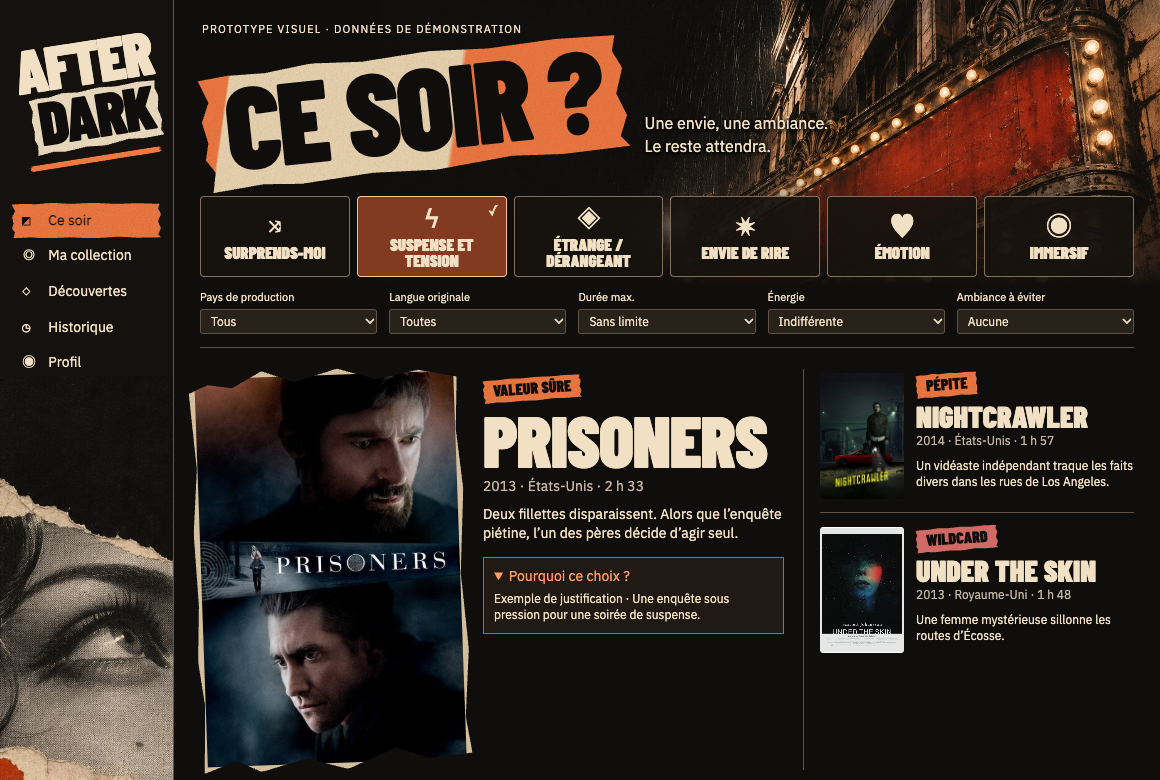
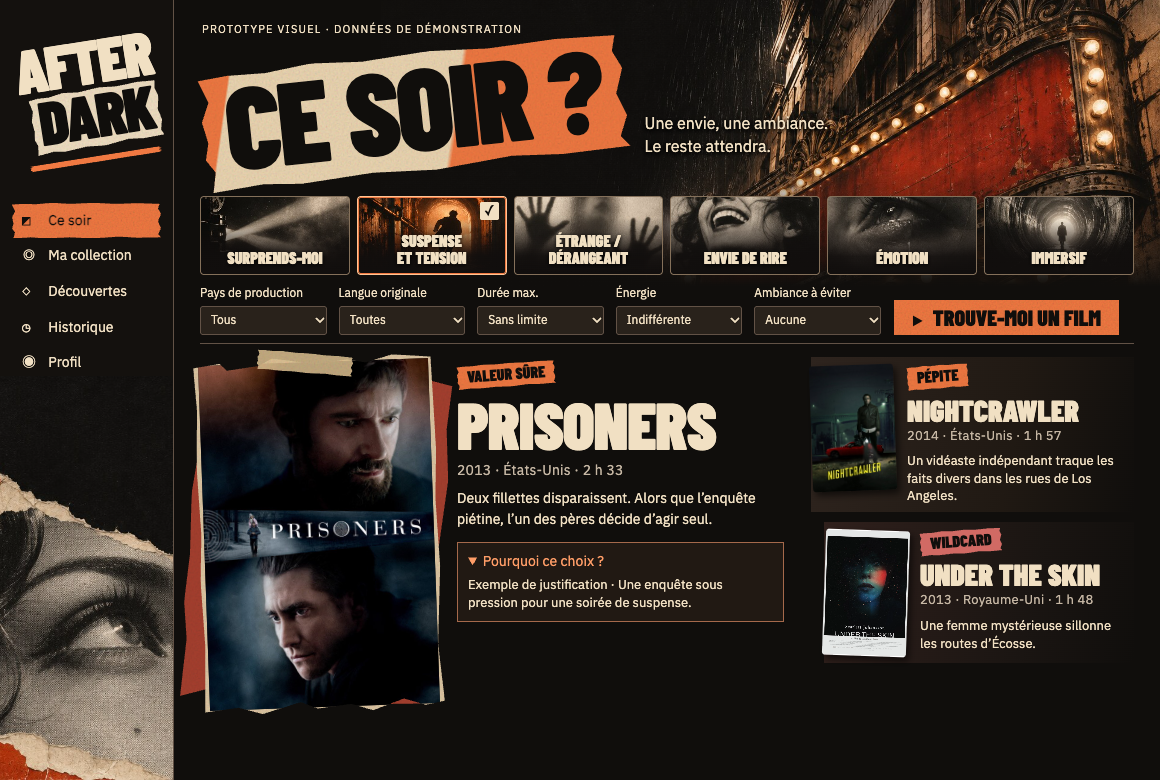
Refine Ce soir prototype with photographic moods and layered posters

Changed region(s): [[0.0, 0.2462, 0.9931, 1.0], [0.7138, 0.2462, 0.9931, 0.3385], [0.3724, 0.9538, 0.4034, 0.9846]]

diff --git a/docs/prototypes/ce-soir/prototype.css b/docs/prototypes/ce-soir/prototype.css
@@ -34,9 +34,8 @@ h1 { font-size: clamp(73px, 10vw, 127px); letter-spacing: -.025em; color: var(--
 .moods legend { position: absolute; width: 1px; height: 1px; clip-path: inset(50%); overflow: hidden; }
 .moods label { position: relative; display: grid; grid-template-rows: 33px auto; align-content: center; justify-items: center; padding: 7px 8px; min-height: 81px; border: 1px solid #84705a; border-radius: 4px; text-align: center; font-size: 17px; background: #16120ee8; cursor: pointer; }
 .moods input { position: absolute; opacity: 0; }
-.moods label:has(:checked) { border-color: #ffc494; background: #823b21; }
+.moods label:has(:checked) { border-color: #ffc494; }
 .moods label:has(:checked)::after { content: "✓"; position: absolute; top: 5px; right: 7px; font: 14px Plex; }
-.symbol { font: 27px/1 Plex, sans-serif; }
 .filters { display: grid; grid-template-columns: repeat(5, 1fr); gap: 12px; padding: 13px 0; border-bottom: 1px solid var(--line); }
 .filters label { display: grid; gap: 4px; font-size: 11px; }
 select { width: 100%; min-width: 0; border: 1px solid var(--line); border-radius: 3px; background: #29221b; color: var(--paper); padding: 3px 6px; font: 12px Plex, sans-serif; }
@@ -87,4 +86,155 @@ h1, .paper, .brand span + span, .views .active, .role {
 h1 { background-image: url(assets/grain.svg), linear-gradient(104deg, var(--orange) 7%, #ecd6b2 7.5% 59%, var(--orange) 60%); }
 .hero::before {
   background: linear-gradient(0deg, var(--ink), transparent 43%), linear-gradient(90deg, var(--ink) 10%, #100e0ca6 34%, transparent 64%), url(assets/cinema.jpg) right 47% / 79% auto no-repeat;
+}
+
+/* Photographic contact prints keep type on an ink edge at every crop. */
+.moods label {
+  background: linear-gradient(0deg, #110e0d 0%, #110e0deb 23%, transparent 73%), var(--still) center 38% / cover;
+  display: flex;
+  align-items: end;
+  justify-content: center;
+  min-height: 79px;
+  font-size: 16px;
+  line-height: 1.02;
+  padding: 27px 9px 8px;
+  text-wrap: balance;
+  text-shadow: 0 1px 4px #000;
+}
+.moods label:has([value="surprise"]) { --still: url(assets/mood-surprise.jpg); }
+.moods label:has([value="tension"]) { --still: url(assets/mood-tension.jpg); }
+.moods label:has([value="strange"]) { --still: url(assets/mood-strange.jpg); }
+.moods label:has([value="laugh"]) { --still: url(assets/mood-laugh.jpg); }
+.moods label:has([value="emotion"]) { --still: url(assets/mood-emotion.jpg); }
+.moods label:has([value="immersion"]) { --still: url(assets/mood-immersion.jpg); }
+.moods label:hover { border-color: var(--paper); }
+.moods label:has(:checked) {
+  border-color: #ffc494;
+  box-shadow: inset 0 0 0 1px #f07942;
+  background-color: #6d2a16;
+}
+.moods label:has(:checked)::after {
+  background: var(--paper);
+  color: var(--ink);
+  padding: 0 4px;
+  border-radius: 2px;
+  text-shadow: none;
+}
+.filters { border: 0; padding: 10px 0 8px; }
+.filters label { font-size: 12px; }
+select { min-height: 29px; }
+.search {
+  display: flex;
+  align-items: center;
+  gap: 15px;
+  border-bottom: 1px solid var(--line);
+  padding-bottom: 10px;
+}
+.search button {
+  border: 0;
+  cursor: pointer;
+  background: var(--orange) url(assets/grain.svg);
+  background-blend-mode: multiply;
+  color: var(--ink);
+  padding: 6px 18px 7px;
+  font: 900 22px/1 Barlow, sans-serif;
+  text-transform: uppercase;
+}
+.search button span { margin-right: 5px; font-size: 13px; }
+.search button:hover { background-color: #ffa46d; }
+.search p { color: var(--muted); font-size: 12px; }
+.lineup { margin-top: 13px; }
+.feature-art {
+  position: relative;
+  isolation: isolate;
+  margin: 0 1px 0 4px;
+}
+.feature-art::before, .feature-art::after {
+  content: "";
+  position: absolute;
+  pointer-events: none;
+  background-blend-mode: multiply;
+  clip-path: var(--torn);
+}
+.feature-art::before {
+  z-index: -1;
+  inset: 10px -5px 7px -10px;
+  background: #a6402f url(assets/grain.svg);
+  transform: rotate(4deg);
+}
+.feature-art::after {
+  width: 40%;
+  height: 20px;
+  left: 24%;
+  top: -4px;
+  background: #dfc290d9 url(assets/grain.svg);
+  transform: rotate(5deg);
+}
+.paper {
+  padding: 5px;
+  --torn: polygon(0 2%, 11% 1%, 14% 3%, 27% 2%, 33% 0, 51% 2%, 64% 1%, 72% 2%, 83% 0, 99% 1%, 100% 27%, 99% 41%, 100% 60%, 98% 82%, 100% 98%, 92% 99%, 83% 97%, 70% 100%, 61% 98%, 47% 99%, 40% 97%, 24% 100%, 14% 98%, 0 99%, 1% 80%, 0 62%, 1% 49%, 0 30%, 1% 14%);
+}
+.paper img { aspect-ratio: auto; max-height: 339px; object-position: center; object-fit: contain; background: #171310; }
+.feature h2 { font-size: clamp(40px, 5.65vw, 72px); line-height: .97; }
+.feature-copy { padding-top: 6px; }
+.feature-copy > p:not(.role) { line-height: 1.45; }
+.meta { letter-spacing: .015em; }
+details p { font-size: 13px; }
+.alternatives {
+  border-left: 0;
+  padding-left: 8px;
+}
+.alternatives article {
+  position: relative;
+  padding: 8px 10px 7px 0;
+  background: linear-gradient(100deg, #2e241e 0%, #201913 62%, transparent);
+}
+.alternatives article + article {
+  border: 0;
+  padding-top: 8px;
+  margin: 10px 0 0 13px;
+  background: linear-gradient(100deg, #30201c, #1a1512 66%, transparent);
+}
+.alternatives img {
+  box-shadow: 3px 4px 7px #0009;
+  transform: rotate(-2deg);
+}
+.alternatives article + article img { transform: rotate(2deg); }
+.alternatives p:not(.role) { font-size: 13px; line-height: 1.35; }
+.alternatives h2 { line-height: 1; }
+@media (max-width: 580px) {
+  .hero { min-height: 147px; padding-top: 12px; }
+  h1 { font-size: clamp(54px, 14vw, 80px); }
+  .intro { padding: 4px 0 0; font-size: 14px; }
+  .intro br { display: none; }
+  .moods label { min-height: 67px; }
+  .search { flex-wrap: wrap; gap: 5px 12px; }
+  .feature h2 { font-size: clamp(30px, 8vw, 44px); }
+  .feature-copy { min-width: 0; }
+  .alternatives { padding-left: 0; }
+}
+@media (min-width: 881px) {
+  .controls {
+    display: grid;
+    grid-template-columns: minmax(0, 1fr) auto;
+    gap: 0 13px;
+    border-bottom: 1px solid var(--line);
+  }
+  .moods { grid-column: 1 / -1; }
+  .search { border: 0; align-self: end; padding-bottom: 8px; position: relative; }
+  .search p:not(:empty) {
+    position: absolute;
+    z-index: 1;
+    top: 100%;
+    right: 0;
+    width: max-content;
+    background: var(--ink);
+    padding: 4px 8px;
+  }
+  .feature { grid-template-columns: minmax(0, 245px) minmax(0, 1fr); }
+  .paper img { max-height: none; }
+}
+@media (max-width: 580px) {
+  .search button { min-height: 40px; }
+  .search p:empty { display: none; }
 }

diff --git a/docs/prototypes/ce-soir/index.html b/docs/prototypes/ce-soir/index.html
@@ -3,9 +3,10 @@
 <head>
   <meta charset="utf-8">
   <meta name="viewport" content="width=device-width, initial-scale=1">
-  <meta http-equiv="Content-Security-Policy" content="default-src 'none'; style-src 'self'; font-src 'self'; img-src 'self'">
+  <meta http-equiv="Content-Security-Policy" content="default-src 'none'; style-src 'self'; font-src 'self'; script-src 'self'; img-src 'self'">
   <title>After Dark · Prototype Ce soir</title>
   <link rel="stylesheet" href="prototype.css">
+  <script src="prototype.js" defer></script>
 </head>
 <body>
   <aside class="sidebar">
@@ -27,12 +28,12 @@
     <form class="controls" aria-label="Critères de la séance">
       <fieldset class="moods">
         <legend>Humeur</legend>
-        <label><input type="radio" name="mood" value="surprise"><span class="symbol" aria-hidden="true">⤨</span>Surprends-moi</label>
-        <label><input type="radio" name="mood" value="tension" checked><span class="symbol" aria-hidden="true">ϟ</span>Suspense et tension</label>
-        <label><input type="radio" name="mood" value="strange"><span class="symbol" aria-hidden="true">◈</span>Étrange / dérangeant</label>
-        <label><input type="radio" name="mood" value="laugh"><span class="symbol" aria-hidden="true">✷</span>Envie de rire</label>
-        <label><input type="radio" name="mood" value="emotion"><span class="symbol" aria-hidden="true">♥</span>Émotion</label>
-        <label><input type="radio" name="mood" value="immersion"><span class="symbol" aria-hidden="true">◉</span>Immersif</label>
+        <label><input type="radio" name="mood" value="surprise">Surprends-moi</label>
+        <label><input type="radio" name="mood" value="tension" checked>Suspense et tension</label>
+        <label><input type="radio" name="mood" value="strange">Étrange / dérangeant</label>
+        <label><input type="radio" name="mood" value="laugh">Envie de rire</label>
+        <label><input type="radio" name="mood" value="emotion">Émotion</label>
+        <label><input type="radio" name="mood" value="immersion">Immersif</label>
       </fieldset>
       <div class="filters">
         <label>Pays de production<select><option>Tous</option><option>France</option><option>Espagne</option></select></label>
@@ -41,10 +42,16 @@
         <label>Énergie<select><option>Indifférente</option><option>Modérée</option></select></label>
         <label>Ambiance à éviter<select><option>Aucune</option><option>Violence</option></select></label>
       </div>
+      <div class="search">
+        <button type="submit"><span aria-hidden="true">▶</span> Trouve-moi un film</button>
+        <p role="status" id="demo-status"></p>
+      </div>
     </form>
-    <section class="lineup" aria-label="Sélection de démonstration">
+    <section class="lineup" aria-label="Sélection de démonstration" id="selection" tabindex="-1">
       <article class="feature">
-        <div class="paper"><img src="assets/prisoners.jpg" alt="Affiche de Prisoners"></div>
+        <figure class="feature-art">
+          <div class="paper"><img src="assets/prisoners.jpg" alt="Affiche de Prisoners"></div>
+        </figure>
         <div class="feature-copy">
           <p class="role">Valeur sûre</p>
           <h2>Prisoners</h2>

diff --git a/docs/prototypes/ce-soir/prototype.js b/docs/prototypes/ce-soir/prototype.js
@@ -1,0 +1,12 @@
+const controls = document.querySelector('.controls');
+const demoStatus = document.querySelector('#demo-status');
+const selection = document.querySelector('#selection');
+
+controls.addEventListener('submit', (event) => {
+  event.preventDefault();
+  const mood = controls.querySelector('input[name="mood"]:checked');
+  const label = mood.labels[0].textContent.trim();
+
+  demoStatus.textContent = `${label} · sélection de démonstration fixe`;
+  selection.focus();
+});

diff --git a/docs/prototypes/ce-soir/README.md b/docs/prototypes/ce-soir/README.md
@@ -1,18 +1,18 @@
 # Ce soir · Prototype visuel
 
-Ouvrir [index.html](index.html) dans Chrome sur macOS. Le prototype charge ses assets depuis ce dossier et fonctionne sans serveur. Les radios, les listes déroulantes et le panneau de justification permettent d’essayer les contrôles. La sélection initiale illustre le résultat d’une séance « Suspense et tension » avec trois films fixes. La navigation sert à juger la composition.
+Ouvrir [index.html](index.html) dans Chrome sur macOS. Le prototype charge ses assets depuis ce dossier et fonctionne sans serveur. Les radios, les listes déroulantes et le panneau de justification permettent d’essayer les contrôles. « Trouve-moi un film » annonce l’humeur sélectionnée et mène à la sélection fixe en gardant les critères saisis. La sélection initiale illustre le résultat d’une séance « Suspense et tension » avec trois films fixes. La navigation sert à juger la composition.
 
-[Capture réelle du prototype dans Chrome, 1160 × 780 px](../../screenshots/prototype-ce-soir-1160.png)
+[Capture Chrome à 1160 × 780 px](../../screenshots/prototype-ce-soir-1160.png) · [Capture Chrome à 520 × 1040 px](../../screenshots/prototype-ce-soir-520.png)
 
 ## Comparaison avec « After Dark_ Suspense au cinéma.png »
 
 | Élément | Référence, ramenée à 1160 px | Prototype rendu |
 | --- | --- | --- |
-| Marge et grille | Sidebar de 184 px environ. Les recommandations commencent vers 350 px. | Sidebar de 174 px. Les recommandations commencent à 369 px. Le bandeau d’humeurs garde six choix sur une rangée. |
+| Marge et grille | Sidebar de 184 px environ. Les recommandations commencent vers 350 px. | Sidebar de 174 px. Les recommandations commencent vers 356 px. Le bandeau garde six choix sur une rangée et reprend les scènes photographiques de la référence dans six vignettes originales générées pour le prototype. |
 | Photographie | La façade lumineuse occupe surtout la moitié droite du haut. Le portrait monochrome prend le bas de la marge. | La marquise monte jusqu’au bord droit et reste visible derrière les cartes d’humeur. Le regard en similigravure réapparaît dans le bas de la sidebar. Les deux recadrages viennent d’un décor généré pour le prototype. |
 | Typographie et papier | Le titre incliné occupe environ 350 px. Les lettres sont hautes et étroites. | Le titre sur papier orange et ivoire occupe environ 430 px. Barlow Condensed est plus massif, et la superposition avec le décor commence plus loin vers la droite. La marquise vierge laisse le titre porter la lecture. |
-| Film vedette | Environ 61 % de la sélection en largeur. Affiche en collage sépia d’environ 260 × 390 px. | Environ 63 % de la sélection. L’affiche d’environ 265 × 395 px garde sa couleur et son graphisme. Seul son support est déchiré. |
-| Propositions secondaires | Deux films empilés avec des affiches d’environ 92 px de large. Une rangée d’actions occupe le bas. | Deux films empilés avec des affiches de 84 px de large. Le bas reste dégagé et l’explication de la vedette est ouverte. Les icônes des humeurs sont abstraites et l’agencement exact des filtres est illustratif. |
+| Film vedette | Environ 61 % de la sélection en largeur. Affiche en collage sépia d’environ 260 × 390 px. | Environ 63 % de la sélection. L’affiche d’environ 235 × 350 px garde sa couleur et son graphisme. Un fond rouge décalé, un bord ivoire et une bande adhésive au bord supérieur donnent trois plans au montage. |
+| Propositions secondaires | Deux films empilés avec des affiches d’environ 92 px de large. Une rangée d’actions occupe le bas. | Deux films empilés avec des affiches de 84 px de large, des inclinaisons opposées et un retrait sur le second film. La recherche est placée à droite des filtres comme dans « Votre Séance Personnelle ». |
 
 ## Fixtures
 
@@ -23,4 +23,4 @@ Les rôles, résumés courts et raisons forment un exemple de composition. Le pr
 - [Under the Skin · affiche du distributeur Diaphana](https://diaphana.fr/wp-content/uploads/2014/03/120x160-under-the-skin_hd.pdf)
 - Barlow Condensed et IBM Plex Sans sont chargés localement. Leurs licences OFL accompagnent les polices dans `assets/`.
 
-La capture a été rendue avec Chrome sur macOS à un facteur d’échelle de 1.
+Captures Chrome sur macOS à un facteur d’échelle de 1. À 520 px, les humeurs passent sur deux rangées, le CTA suit les filtres et les films secondaires passent sous la vedette. Vérification des images, de l’absence de débordement horizontal, des flèches sur les radios et de la soumission avec Entrée à 1160, 520 et 410 px.
